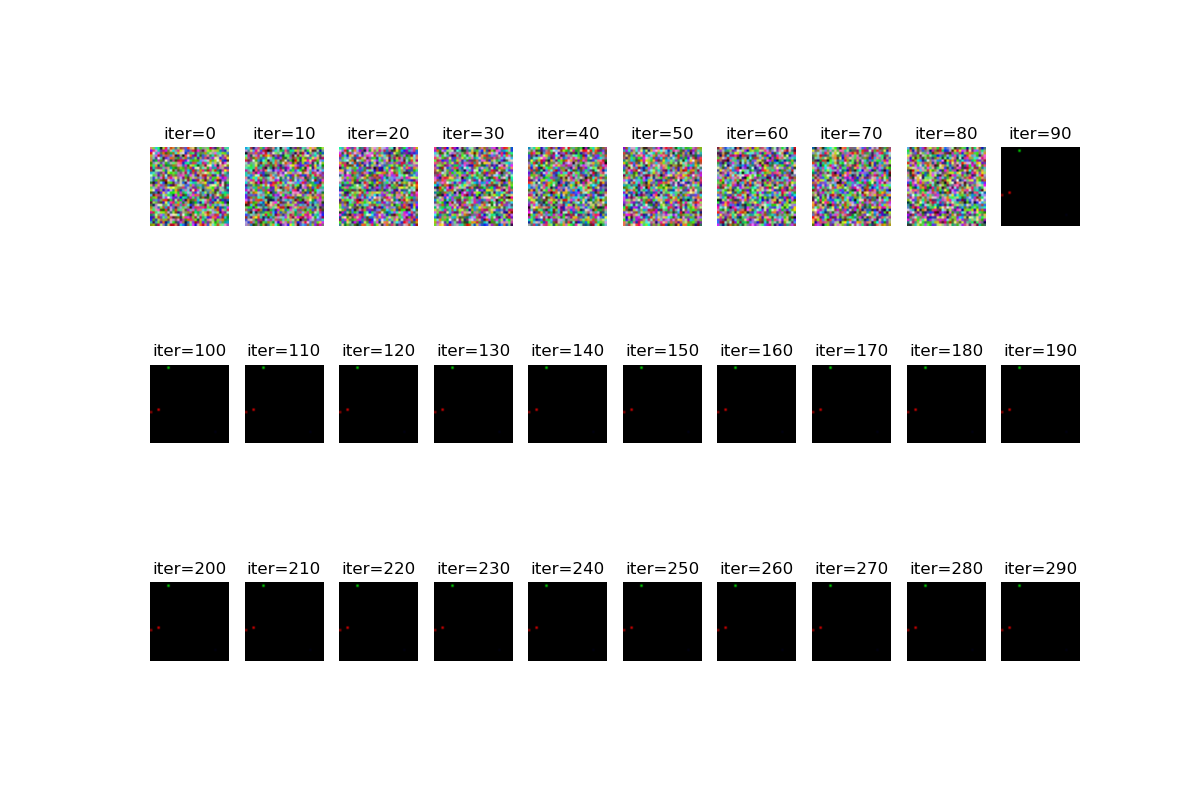
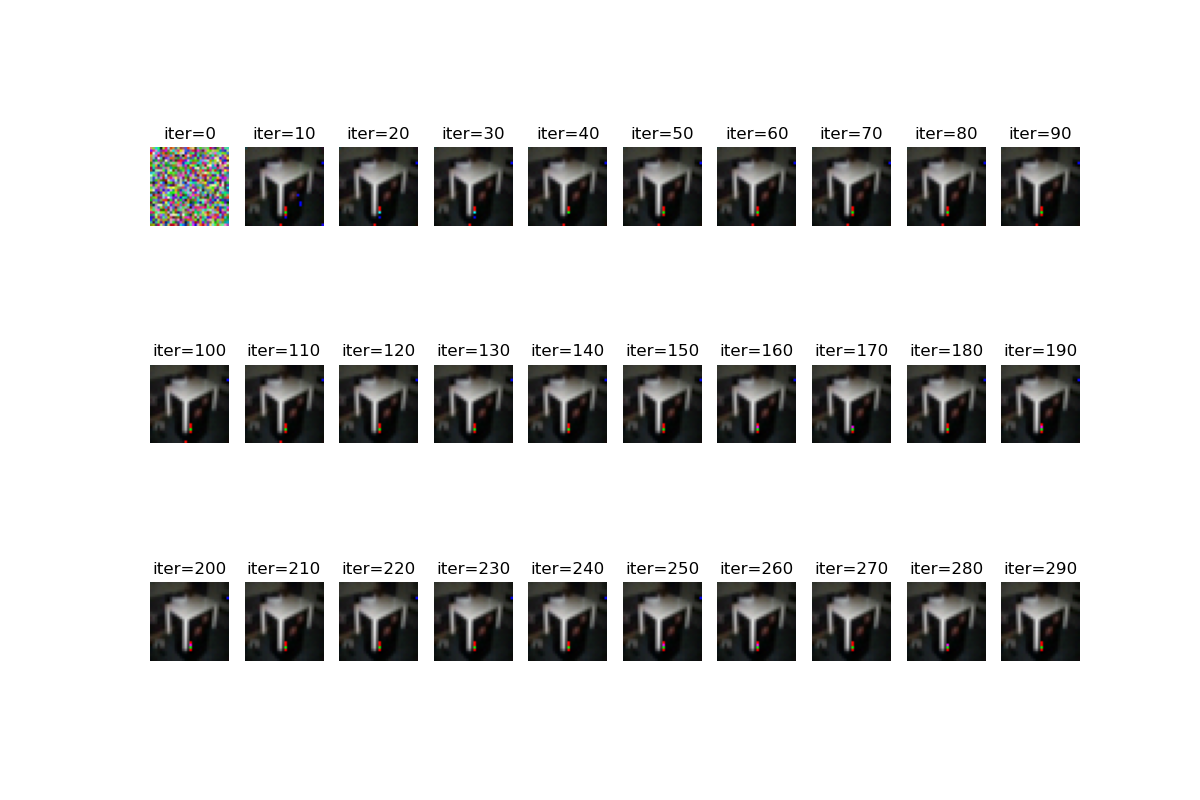
success for resnet

Changed region(s): [[0.1233, 0.4375, 0.8942, 0.5625], [0.1233, 0.7188, 0.8942, 0.8438], [0.185, 0.1562, 0.925, 0.2812]]

diff --git a/main.py b/main.py
@@ -89,16 +89,16 @@ for iters in range(300):
         # for gx, gy in zip(dummy_dy_dx, original_dy_dx):
         #     # grad_diff += (torch.abs(gx - gy)).sum()
         #     grad_diff += ((gx - gy)**2).sum()
-        grad_diff = sum((10000*(dummy_g - origin_g)**2).sum() for dummy_g, origin_g in zip(dummy_dy_dx, original_dy_dx))
-        # grad_diff = sum(((dummy_g - origin_g) ** 2).sum() for dummy_g, origin_g in zip(dummy_dy_dx, original_dy_dx))
+        # grad_diff = sum((10000*(dummy_g - origin_g)**2).sum() for dummy_g, origin_g in zip(dummy_dy_dx, original_dy_dx))
+        grad_diff = sum(((dummy_g - origin_g) ** 2).sum() for dummy_g, origin_g in zip(dummy_dy_dx, original_dy_dx))
         # grad_diff = sum((torch.abs(dummy_g - origin_g)).sum() for dummy_g, origin_g in zip(dummy_dy_dx, original_dy_dx))
         # grad_diff = torch.log(grad_diff)
         grad_diff.backward()
-        print(iters, "%f" % grad_diff)
-        print(
-            f"dummy_data.grad max: {dummy_data.grad.max()} min: {dummy_data.grad.min()} mean: {dummy_data.grad.mean()}")
-        print(
-            f"dummy_label.grad max: {dummy_label.grad.max()} min: {dummy_label.grad.min()} mean: {dummy_label.grad.mean()}")
+        # print(iters, "%f" % grad_diff)
+        # print(
+        #     f"dummy_data.grad max: {dummy_data.grad.max()} min: {dummy_data.grad.min()} mean: {dummy_data.grad.mean()}")
+        # print(
+        #     f"dummy_label.grad max: {dummy_label.grad.max()} min: {dummy_label.grad.min()} mean: {dummy_label.grad.mean()}")
 
 
         

diff --git a/models/vision.py b/models/vision.py
@@ -55,6 +55,7 @@ def weights_init_for_resnet(m):
     # if hasattr(m, "bias"):
     #     m.bias.data.uniform_(-0.5, 0.5)
 
+
 class BasicBlock(nn.Module):
     expansion = 1
 
@@ -119,10 +120,10 @@ class ResNet(nn.Module):
         self.layer2 = self._make_layer(block, 128, num_blocks[1], stride=1)
         self.layer3 = self._make_layer(block, 256, num_blocks[2], stride=1)
         self.layer4 = self._make_layer(block, 512, num_blocks[3], stride=1)
-        # self.linear = nn.Linear(512*32*32*block.expansion, num_classes)
-        self.avgpool = nn.MaxPool2d(2, stride=1)
+        self.linear = nn.Linear(512*32*32*block.expansion, num_classes)
+        # self.avgpool = nn.MaxPool2d(2, stride=1)
         # self.avgpool = nn.AvgPool2d(4)
-        self.linear = nn.Linear(512 * 31*31 * block.expansion, num_classes)
+        # self.linear = nn.Linear(512 * 31*31 * block.expansion, num_classes)
 
     def _make_layer(self, block, planes, num_blocks, stride):
         strides = [stride] + [1]*(num_blocks-1)
@@ -138,7 +139,7 @@ class ResNet(nn.Module):
         out = self.layer2(out)
         out = self.layer3(out)
         out = self.layer4(out)
-        out = self.avgpool(out)  # 这块有信息损失？
+        # out = self.avgpool(out)  # 这块有信息损失？
         out = out.view(out.size(0), -1)
         out = self.linear(out)
         return out
